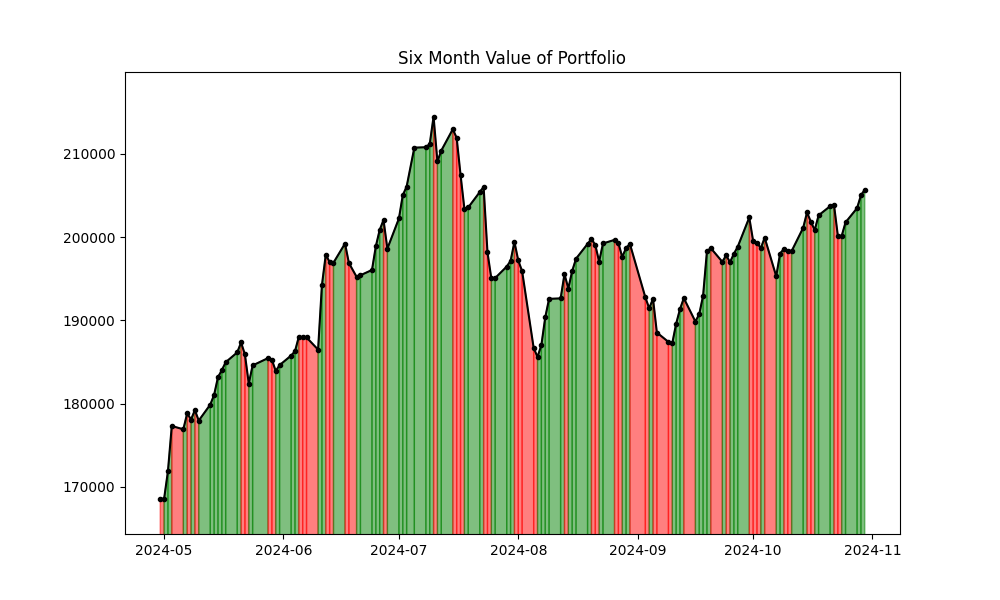
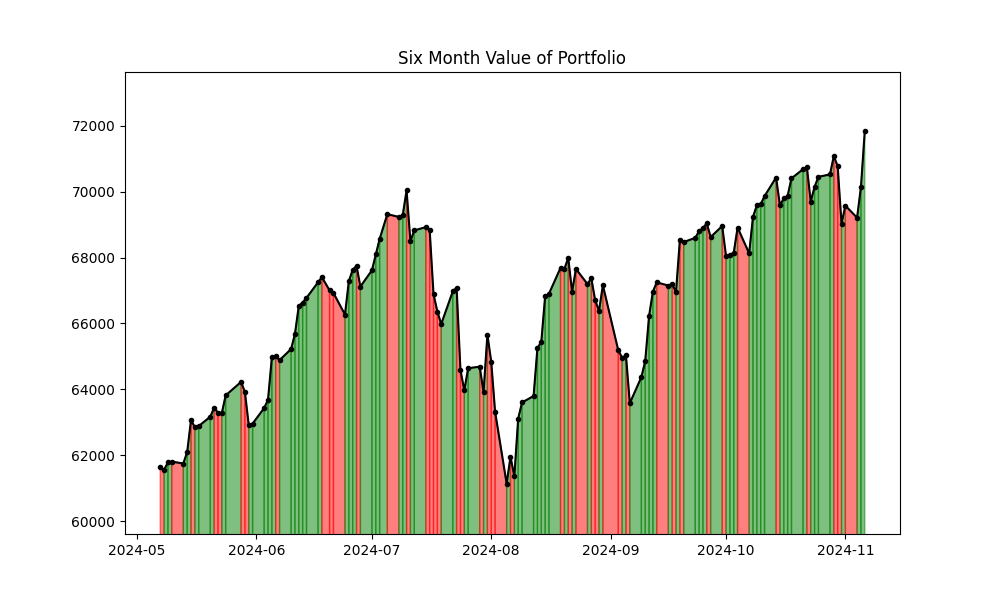
working as I want it. neet to switch off test google Auth0

diff --git a/daily_schedule.py b/daily_schedule.py
@@ -11,7 +11,7 @@ def run_script():
     os.system("python main.py")  # Adjust the path as needed
 
 # Schedule the job to run daily at a specific time (e.g., 8:00 AM)
-schedule.every().day.at("22:02").do(run_script)  # Adjust the time as needed
+schedule.every().day.at("08:00").do(run_script)  # Adjust the time as needed
 
 while True:
     schedule.run_pending()  # Check if a scheduled task is pending

diff --git a/main.py b/main.py
@@ -5,7 +5,7 @@ subprocess.check_call(["pip", "install", "-r", "requirements.txt"], stdout=subpr
 import json
 from helpers import email_create
 
-with open("holdings.json", "r") as json_file:
+with open("holdings_real.json", "r") as json_file:
     holdings = json.load(json_file)
 
 sender = "andrewjosephbeery@gmail.com"
